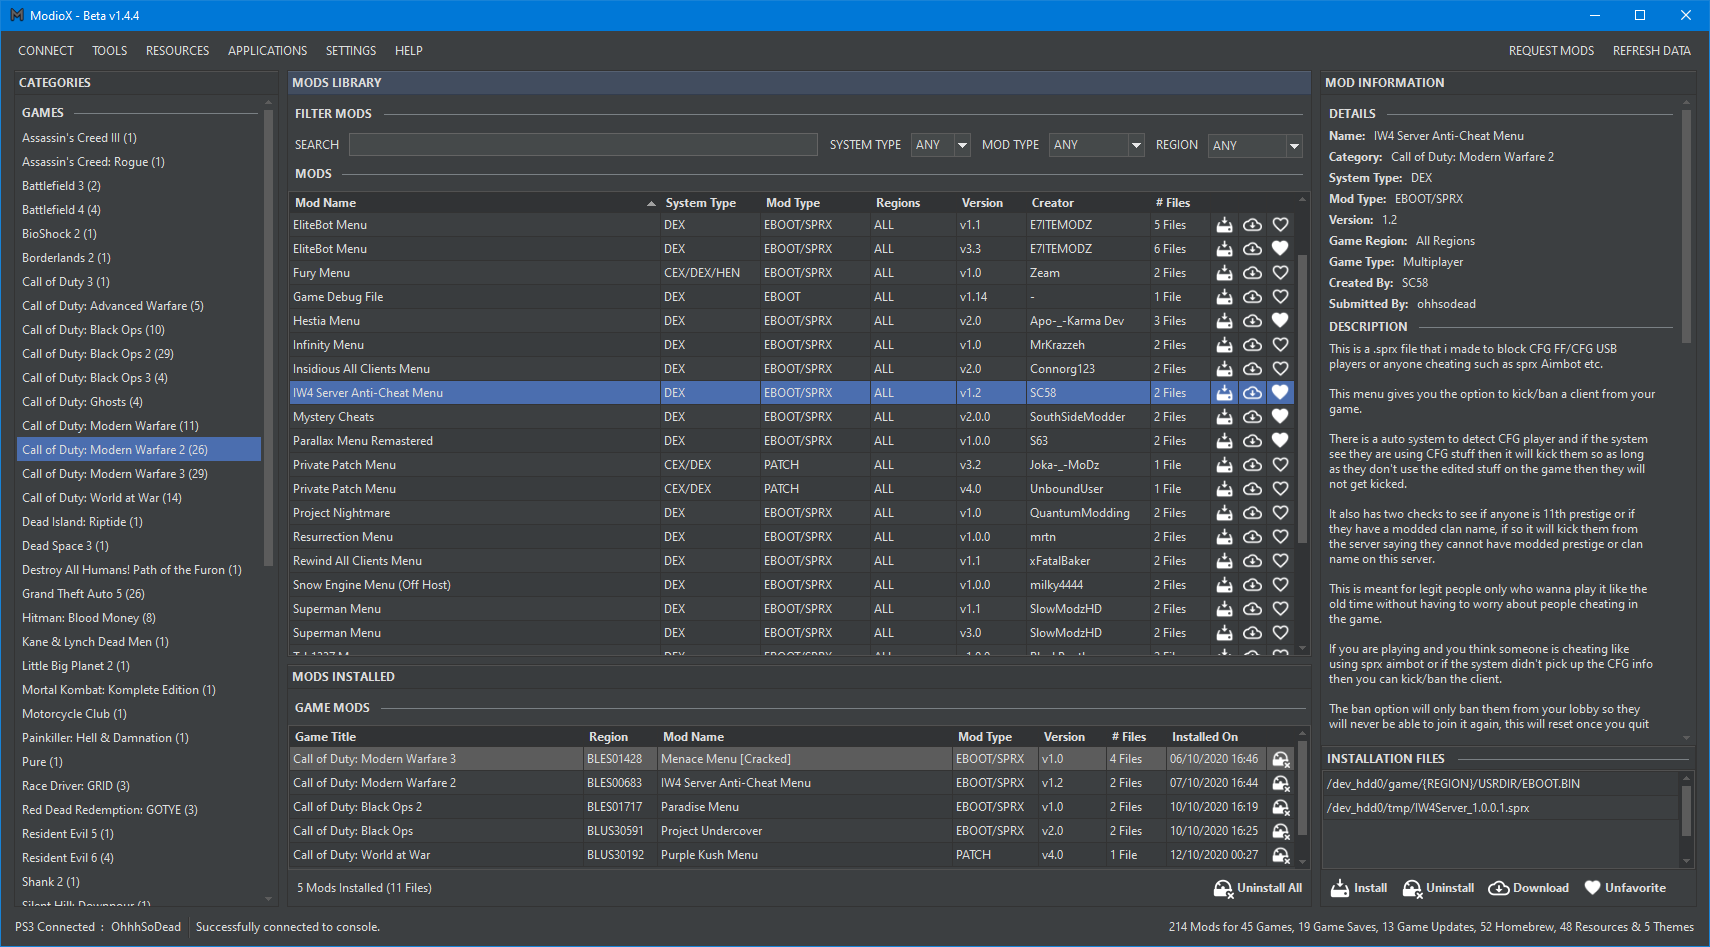
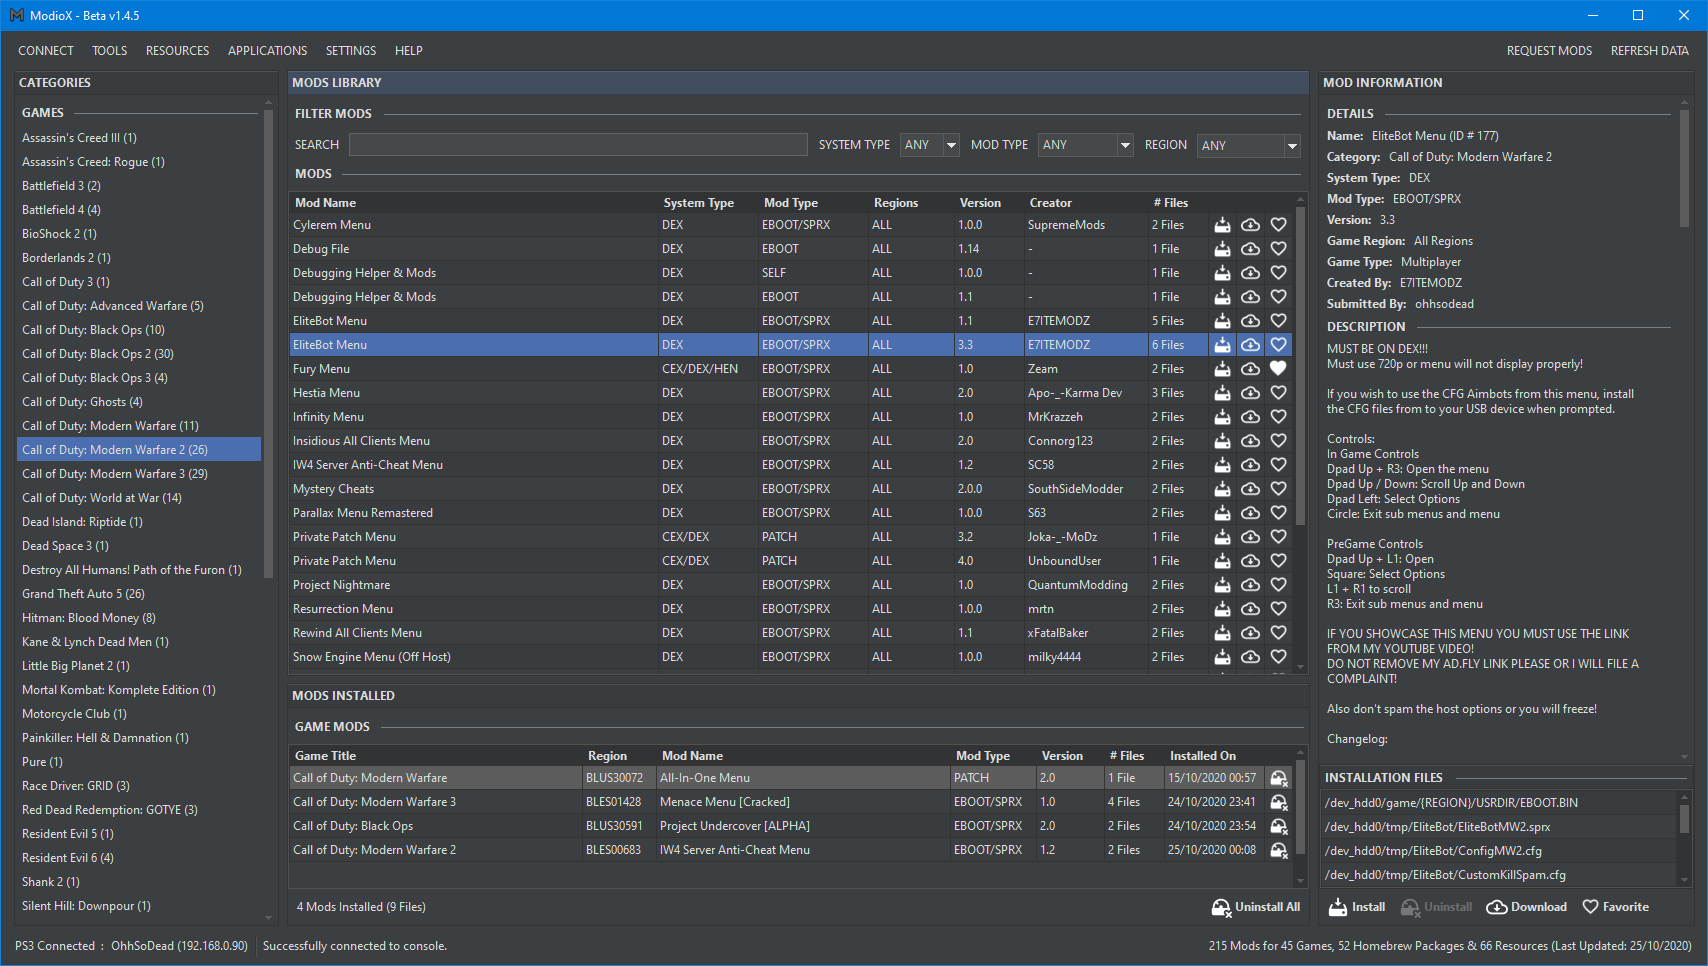
Updated screenshots Can now resize main window

Changed region(s): [[0.0, 0.0, 0.993, 1.0], [0.8689, 0.0306, 0.993, 0.0612], [0.9619, 0.8574, 0.993, 0.8881]]

diff --git a/src/ModioX/Forms/Windows/MainWindow.Designer.cs b/src/ModioX/Forms/Windows/MainWindow.Designer.cs
@@ -2130,6 +2130,7 @@
             this.Margin = new System.Windows.Forms.Padding(5);
             this.MinimumSize = new System.Drawing.Size(1600, 860);
             this.Name = "MainWindow";
+            this.SizeGripStyle = System.Windows.Forms.SizeGripStyle.Show;
             this.StartPosition = System.Windows.Forms.FormStartPosition.CenterScreen;
             this.Text = "ModioX - Beta v1.0.0";
             this.FormClosing += new System.Windows.Forms.FormClosingEventHandler(this.MainWindow_FormClosing);
